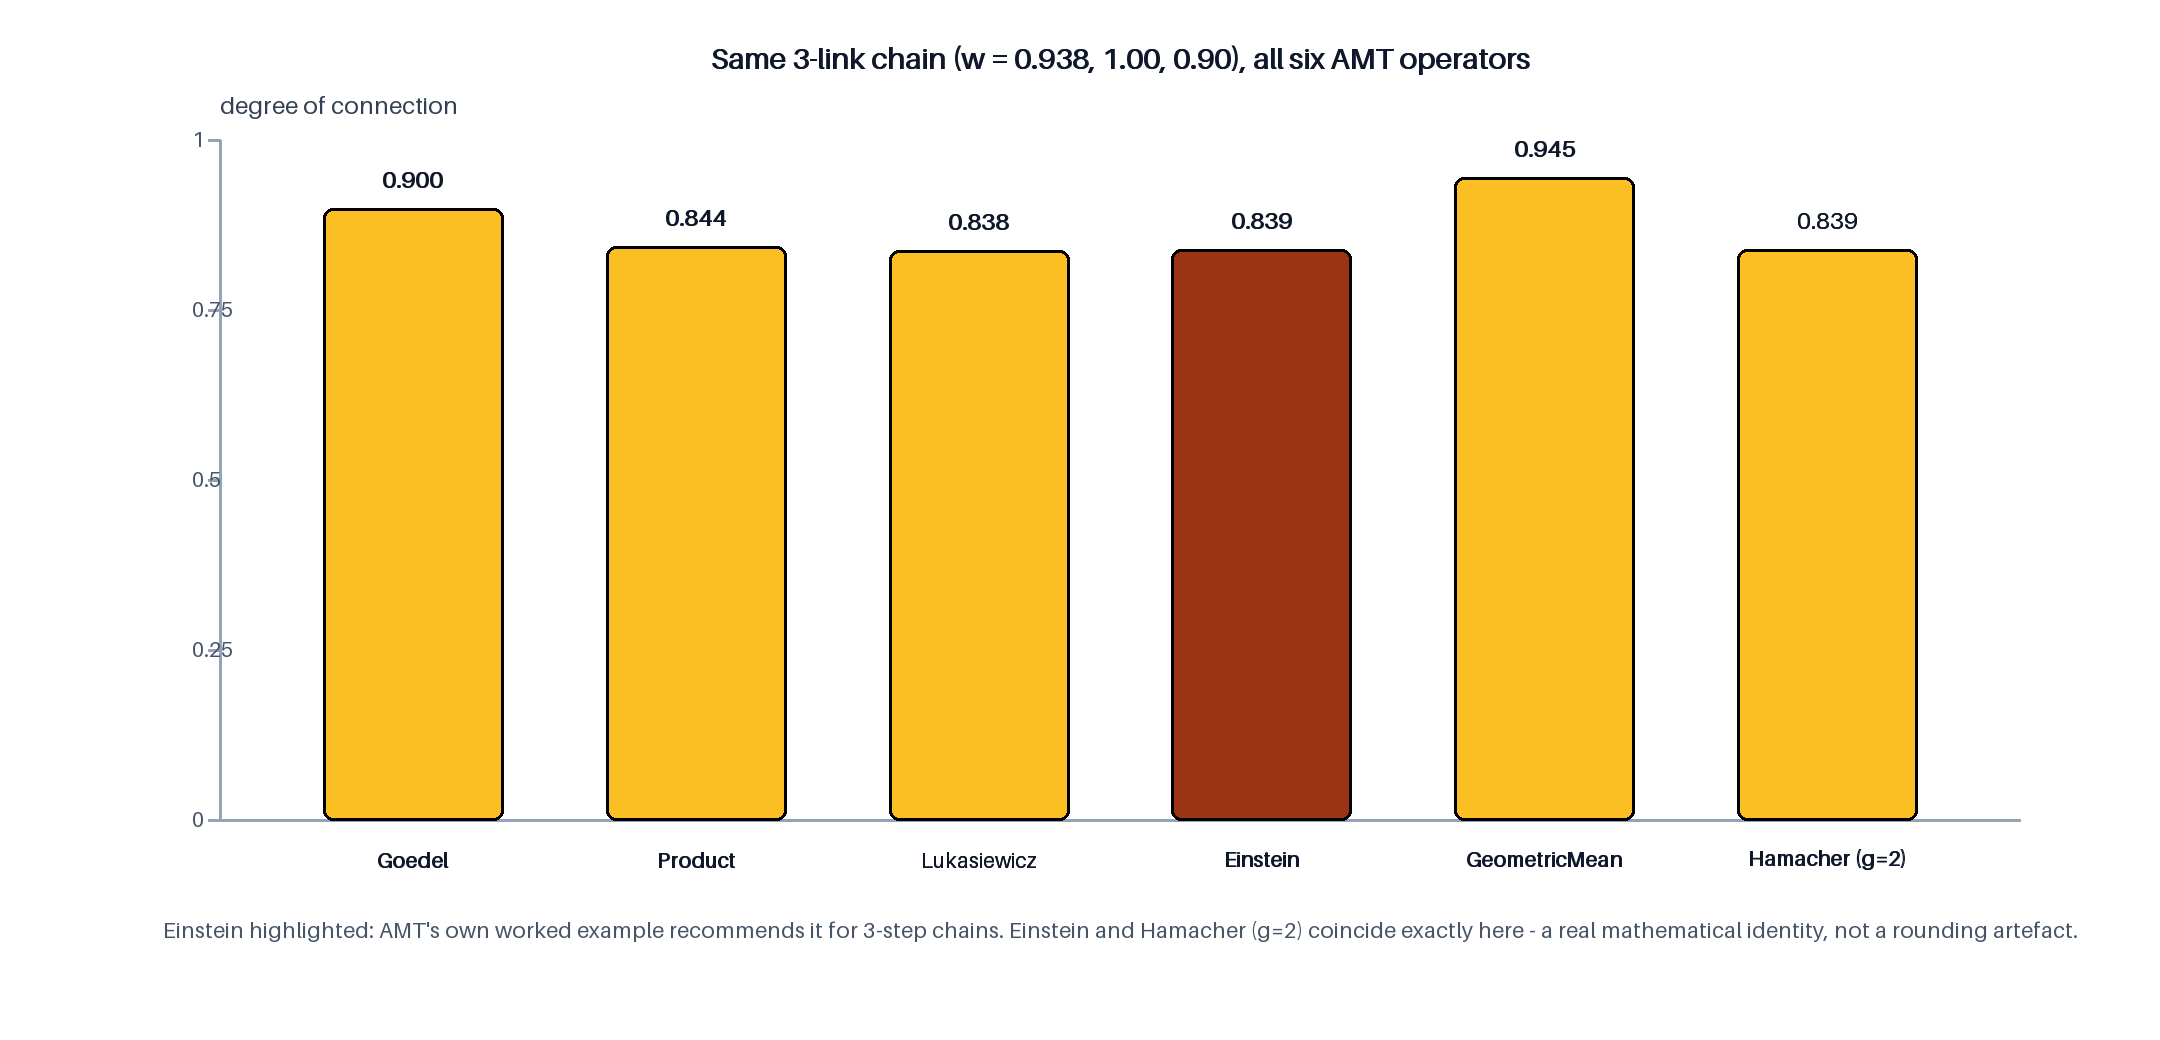
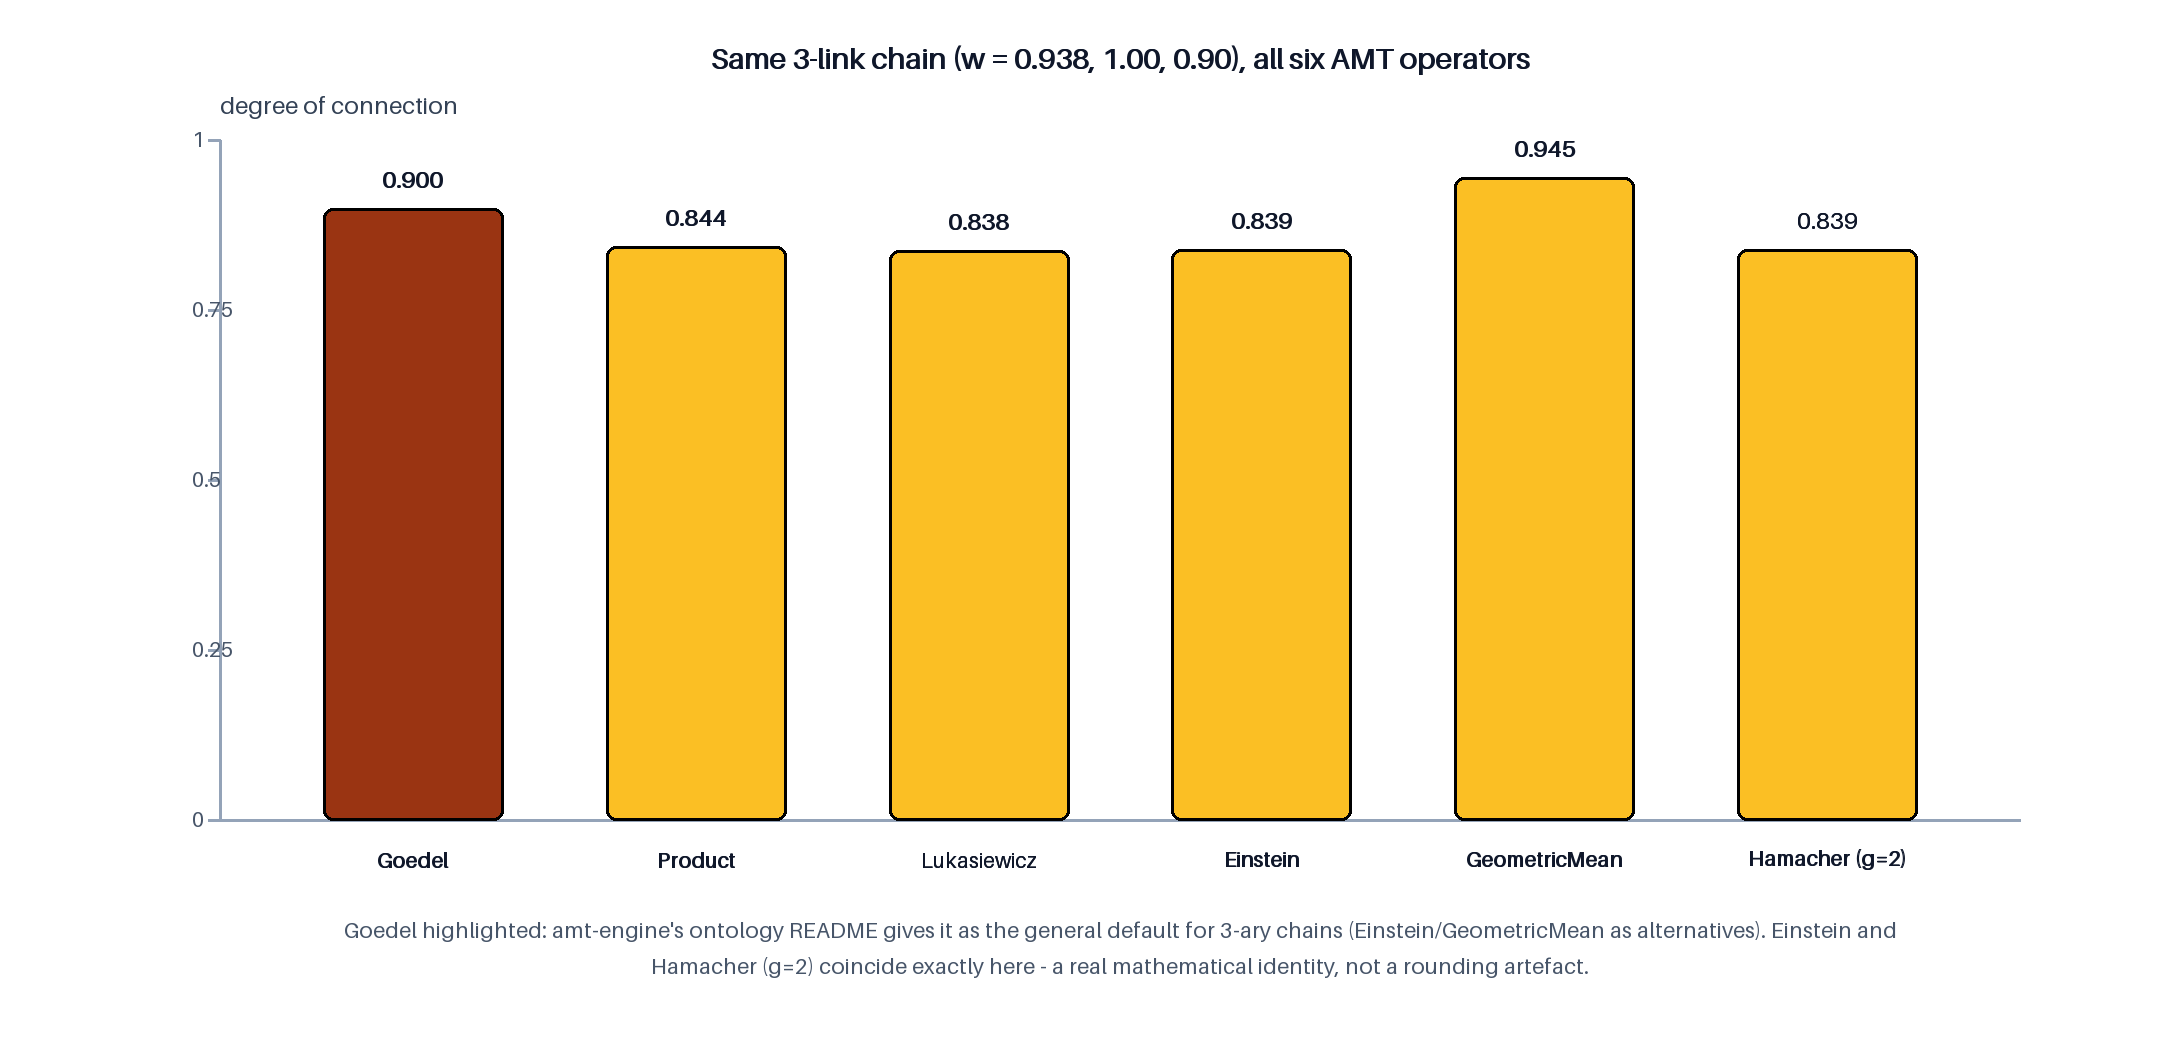
Correct scenario-03: Goedel, not Einstein, is the 3-ary default
amt-engine's ontology README documents Goedel as the general default for 3-ary RoleChainAxiom chains; the earlier Einstein claim over-generalised a code comment that only justified Einstein over Product for one specific chain.

Found while grounding scenario 6 against the same ontology README; all five figures and the README corrected and re-verified byte-identical.

Changed region(s): [[0.1241, 0.1846, 0.2481, 0.8], [0.5273, 0.2154, 0.6514, 0.8], [0.0931, 0.8923, 0.9616, 0.9538]]

diff --git a/scenario-03-cidoc-class-inference/py/build_figures.py b/scenario-03-cidoc-class-inference/py/build_figures.py
@@ -76,12 +76,28 @@ OPERATORS = {
     "GeometricMean": lambda w: prod(w) ** (1.0 / len(w)),
     "Hamacher (g=2)": lambda w: reduce(lambda a, b: _hamacher_pair(a, b, 2.0), w),
 }
+# Real amt:Logic instance names, from amt.ttl - not a uniform "<Name>Logic"
+# pattern (EinsteinProduct/HamacherProduct break that), so this is looked up
+# rather than string-built.
+AMT_LOGIC_IRI = {
+    "Goedel": "GoedelLogic",
+    "Product": "ProductLogic",
+    "Lukasiewicz": "LukasiewiczLogic",
+    "Einstein": "EinsteinProduct",
+    "GeometricMean": "GeometricMean",
+    "Hamacher (g=2)": "HamacherProduct",
+}
 
-# AMT's own worked example (examples/skos-mapping-example.ttl) recommends
-# Einstein product specifically for 3-step chains ("gentler than
-# ProductLogic for n=3, keeping more signal") - used as the headline number
-# in figures 1, 2 and 4. Figure 3 shows the full spread across all six.
-HEADLINE_OPERATOR = "Einstein"
+# Corrected 2026-09-13 (after scenario 6 checked amt-engine's actual
+# ontology/README.md): the general, documented default for 3-ary chains is
+# Goedel, not Einstein. An earlier version of this file said Einstein was
+# "AMT's own recommendation for 3-step chains", based on a code comment in
+# examples/skos-mapping-example.ttl that justifies Einstein over Product
+# for one specific heterogeneous chain - that comment never claimed Einstein
+# over Goedel in general. Goedel is used as the headline operator below;
+# Einstein remains visible in figure 3's full six-operator comparison as the
+# documented alternative for cases like that one.
+HEADLINE_OPERATOR = "Goedel"
 
 
 def load_tsv(path: Path) -> list[dict]:
@@ -183,8 +199,7 @@ def build_pipeline(canvas) -> None:
                 Colours.PROP_META["text"], font_size=13, weight="600")
     for i, line in enumerate([
         "antecedents = (closeMatch,", "exactMatch, hasCRMClass)",
-        "consequent = hasCRMClass", f"logic = {HEADLINE_OPERATOR}Product"
-        if HEADLINE_OPERATOR == "Einstein" else f"logic = {HEADLINE_OPERATOR}",
+        "consequent = hasCRMClass", f"logic = {AMT_LOGIC_IRI[HEADLINE_OPERATOR]}",
     ]):
         canvas.text(axiom_x + axiom_w / 2, axiom_y + 52 + i * 18, line,
                     "#0f172a", font_size=10.5)
@@ -244,10 +259,13 @@ def build_operator_comparison(canvas) -> None:
                     font_size=10.5, weight="600")
 
     canvas.text(x0 + w / 2, y0 + h + 56,
-                f"{HEADLINE_OPERATOR} highlighted: AMT's own worked example "
-                "recommends it for 3-step chains. Einstein and Hamacher "
-                "(g=2) coincide exactly here - a real mathematical identity, "
-                "not a rounding artefact.", "#475569", font_size=11)
+                f"{HEADLINE_OPERATOR} highlighted: amt-engine's ontology "
+                "README gives it as the general default for 3-ary chains "
+                "(Einstein/GeometricMean as alternatives). Einstein and",
+                "#475569", font_size=11)
+    canvas.text(x0 + w / 2, y0 + h + 74,
+                "Hamacher (g=2) coincide exactly here - a real mathematical "
+                "identity, not a rounding artefact.", "#475569", font_size=11)
 
 
 # ---------------------------------------------------------------------------
@@ -297,8 +315,8 @@ def build_fanin(canvas) -> None:
 
     canvas.text(660, 500,
                 f"All three inherit the same class via amt:RoleChainAxiom, "
-                f"each with w = {HEADLINE_DEGREE:.3f} ({HEADLINE_OPERATOR} "
-                "product) - one axiom, applied once, covers every concept "
+                f"each with w = {HEADLINE_DEGREE:.3f} ({HEADLINE_OPERATOR}) "
+                "- one axiom, applied once, covers every concept "
                 "that ever closeMatches this anchor.", "#475569",
                 font_size=11.5)
     canvas.text(660, 522,

diff --git a/scenario-03-cidoc-class-inference/README.md b/scenario-03-cidoc-class-inference/README.md
@@ -87,13 +87,23 @@ into a chain that AMT composes.
   (`skos:closeMatch`, `skos:exactMatch`, `ex:hasCRMClass`) and
   `amt:consequent ex:hasCRMClass` - propagating class membership across two
   real mapping edges and one added assertion in a single declarative rule.
-- **A concrete operator recommendation, taken from AMT's own example file**:
-  `amt-engine/examples/skos-mapping-example.ttl` recommends Einstein
-  product specifically for 3-step chains ("gentler than ProductLogic for
-  n=3, keeping more signal"). This scenario follows that recommendation
-  (`img/scenario-03-operator-comparison` shows why: Einstein sits between
-  the conservative Gödel minimum and the more punishing Product/
-  Lukasiewicz values).
+- **A concrete operator recommendation, taken from `amt-engine`'s ontology
+  README** (`ontology/README.md`, not the example file - see the correction
+  below): Gödel is the documented default for 3-ary chains, with Einstein
+  product and Geometric Mean as alternatives. This scenario uses Gödel
+  (`img/scenario-03-operator-comparison` shows the full spread: Gödel's
+  minimum sits below Geometric Mean but above the more punishing
+  Product/Łukasiewicz values).
+- **Correction, made 2026-09-13 (after building scenario 6)**: an earlier
+  version of this README described Einstein product as "AMT's own
+  recommendation for 3-step chains", based on a code comment in
+  `amt-engine/examples/skos-mapping-example.ttl` that justifies Einstein
+  over *Product* for one specific heterogeneous chain ("gentler than
+  ProductLogic for n=3, keeping more signal"). That comment never claimed
+  Einstein over *Gödel* in general - checking the actual ontology README
+  showed Gödel is the general default. The figures now use Gödel
+  throughout; Einstein remains visible in the six-operator comparison as
+  the documented alternative for cases like the example file's.
 - **Scale, for free**: the same axiom, defined once, applies to every
   concept that closeMatches the anchor - demonstrated with three real
   concepts in `img/scenario-03-fanin`, not just the one worked example in
@@ -103,13 +113,15 @@ into a chain that AMT composes.
   `(xy)/(2-(x+y-xy))` form) - verified numerically here (`0.839076` for
   both, to six decimals), not merely close. Copied from `amt/logic.py`'s
   actual pairwise fold implementations, not re-derived independently.
+  (Visible in the operator-comparison figure even though Gödel, not
+  Einstein, is this scenario's headline operator.)
 
 ## Figures
 
 1. **`img/scenario-03-network.svg`/`.png`** - the core chain: three real
    concept ovals connected by the two real mapping edges, one illustrative
    `hasCRMClass` edge into an orange CIDOC-class box, and the inferred
-   dashed edge (Einstein product, `w = 0.839`) running directly from
+   dashed edge (Gödel, `w = 0.900`) running directly from
    "Artefact" to the class.
 2. **`img/scenario-03-pipeline.svg`/`.png`** - the RDF/AMT view: three
    asserted quads feeding into one `amt:RoleChainAxiom` box, producing one
@@ -117,7 +129,7 @@ into a chain that AMT composes.
 3. **`img/scenario-03-operator-comparison.svg`/`.png`** - the same 3-link
    chain under all six AMT operators (Gödel 0.900, Product 0.844,
    Łukasiewicz 0.838, Einstein 0.839, Geometric Mean 0.945, Hamacher γ=2
-   0.839), with Einstein highlighted as AMT's own documented choice for
+   0.839), with Gödel highlighted as `amt-engine`'s documented default for
    this chain length.
 4. **`img/scenario-03-fanin.svg`/`.png`** - three real DAI concepts fanning
    into the same anchor, all inheriting the same illustrative CIDOC class
@@ -148,7 +160,7 @@ into a chain that AMT composes.
    ex:RCA_crmClassPropagation a amt:RoleChainAxiom ;
        amt:antecedents ( skos:closeMatch skos:exactMatch ex:hasCRMClass ) ;
        amt:consequent  ex:hasCRMClass ;
-       amt:logic       amt:EinsteinProduct .
+       amt:logic       amt:GoedelLogic .
    ```
 
 4. **Run `amt-engine`** (`amt scenario-03.ttl --reason --export-ttl

diff --git a/PRIMER.md b/PRIMER.md
@@ -255,6 +255,7 @@ Eigenschaften, die das fertige Repo erfüllen muss:
 | Szenario-6-narrowMatch-Gewicht | GSAS-`relatedMatch`-Degree (0.4947) als begründete Analogie, da GSAS `narrowMatch` nicht kalibriert | 2026-09-13 |
 | Szenario-6-Operatoren je Arität | Aus `amt-engine`s Ontology-README übernommen: Gödel (n=2,3 Default), GeometricMean (n=4 Default) — nicht Einstein wie in Szenario 3 zu allgemein behauptet | 2026-09-13 |
 | Szenario-6-Bilder | 8 (3× Ketten-Diagramm im n-ary-Stil, Operator-nach-Arität, Product-Dämpfung [synthetisch], SKOS-Vorher/Nachher, binär-vs-n-är, GSAS-Abdeckungslücke) | 2026-09-13 |
+| Szenario-3-Korrektur | Headline-Operator von Einstein auf Gödel geändert (allgemeiner 3-är-Default laut `amt-engine`-Ontology-README); alle 5 Abbildungen + README neu | 2026-09-13 |
 
 ### A5 Was in welchem Chat hochgeladen wird
 
@@ -357,17 +358,22 @@ kann mit, ist aber klein genug, dass es keine Rolle spielt).
 - **Substanz**: fünf Abbildungen (auf Wunsch von ursprünglich 2 auf 5
   erweitert) —
   1. `scenario-03-network`: die Kernkette als Netzwerk, inkl. abgeleiteter
-     gestrichelter Kante (Einstein Product, w=0.839).
+     gestrichelter Kante (Gödel, w=0.900).
   2. `scenario-03-pipeline`: drei asserted Quads → `RoleChainAxiom` →
      inferred Quad.
   3. `scenario-03-operator-comparison`: alle 6 AMT-Operatoren im Vergleich,
-     Einstein hervorgehoben.
+     Gödel hervorgehoben.
   4. `scenario-03-fanin`: drei echte Konzepte, ein Anker, eine Klasse "at
      scale".
   5. `scenario-03-before-after`: Vorher/Nachher-Zusammenfassung.
 - **Abnahme**: `python main.py --only scenario-03` erzeugt alle fünf
   Abbildungen; zweimaliger Lauf ist byte-identisch (`cmp`); Konsolen-Ausgabe
   bestätigt alle 6 Operator-Werte.
+- **Korrektur 2026-09-13** (nach Bau von Szenario 6): Headline-Operator von
+  Einstein auf Gödel umgestellt — `amt-engine`s Ontology-README nennt Gödel
+  als allgemeinen 3-är-Default, Einstein war nur für eine bestimmte
+  heterogene Kette im Beispielfile begründet, nicht allgemein. Alle 5
+  Abbildungen neu gebaut und erneut byte-identisch verifiziert.
 - **Hinweis**: wie S1/S2 ein erster Entwurf zur Vorlage an Lasse Mempel.
 
 ### S4 — Neuro-symbolischer Recommender / Ausblick (erledigt 2026-09-13)
@@ -460,11 +466,10 @@ hängt von Lasses Feedback ab.
   verwendet.
 - ~~Beispielkonzepte für Szenario 5 noch nicht ausgewählt.~~ Erledigt
   (s. A1/A4): dieselbe echte Kette wie Szenario 3 wiederverwendet.
-- **Offen**: Szenario 3 nennt Einstein Product noch als "AMT-Empfehlung für
-  3er-Ketten" — laut Szenario 6/A1 ist das zu allgemein (Default ist
-  Gödel). Szenario 3 selbst wurde dafür noch nicht korrigiert; auf Wunsch
-  nachholbar (kleiner Patch: README-Formulierung anpassen, Abbildung 3
-  ggf. Gödel statt Einstein hervorheben).
+- ~~Szenario 3 nennt Einstein Product noch als "AMT-Empfehlung für
+  3er-Ketten".~~ Erledigt 2026-09-13: Headline-Operator auf Gödel
+  umgestellt (alle 5 Abbildungen neu gebaut, byte-identisch verifiziert),
+  README korrigiert und Korrekturhinweis dort dokumentiert.
 - GSAS deckt `broadMatch`/`narrowMatch` nicht ab (s. Szenario 6). Eine
   echte GSAS-Erweiterung dafür existiert nicht; Szenario 6 nutzt eine
   begründete Analogie statt eines Werts.
